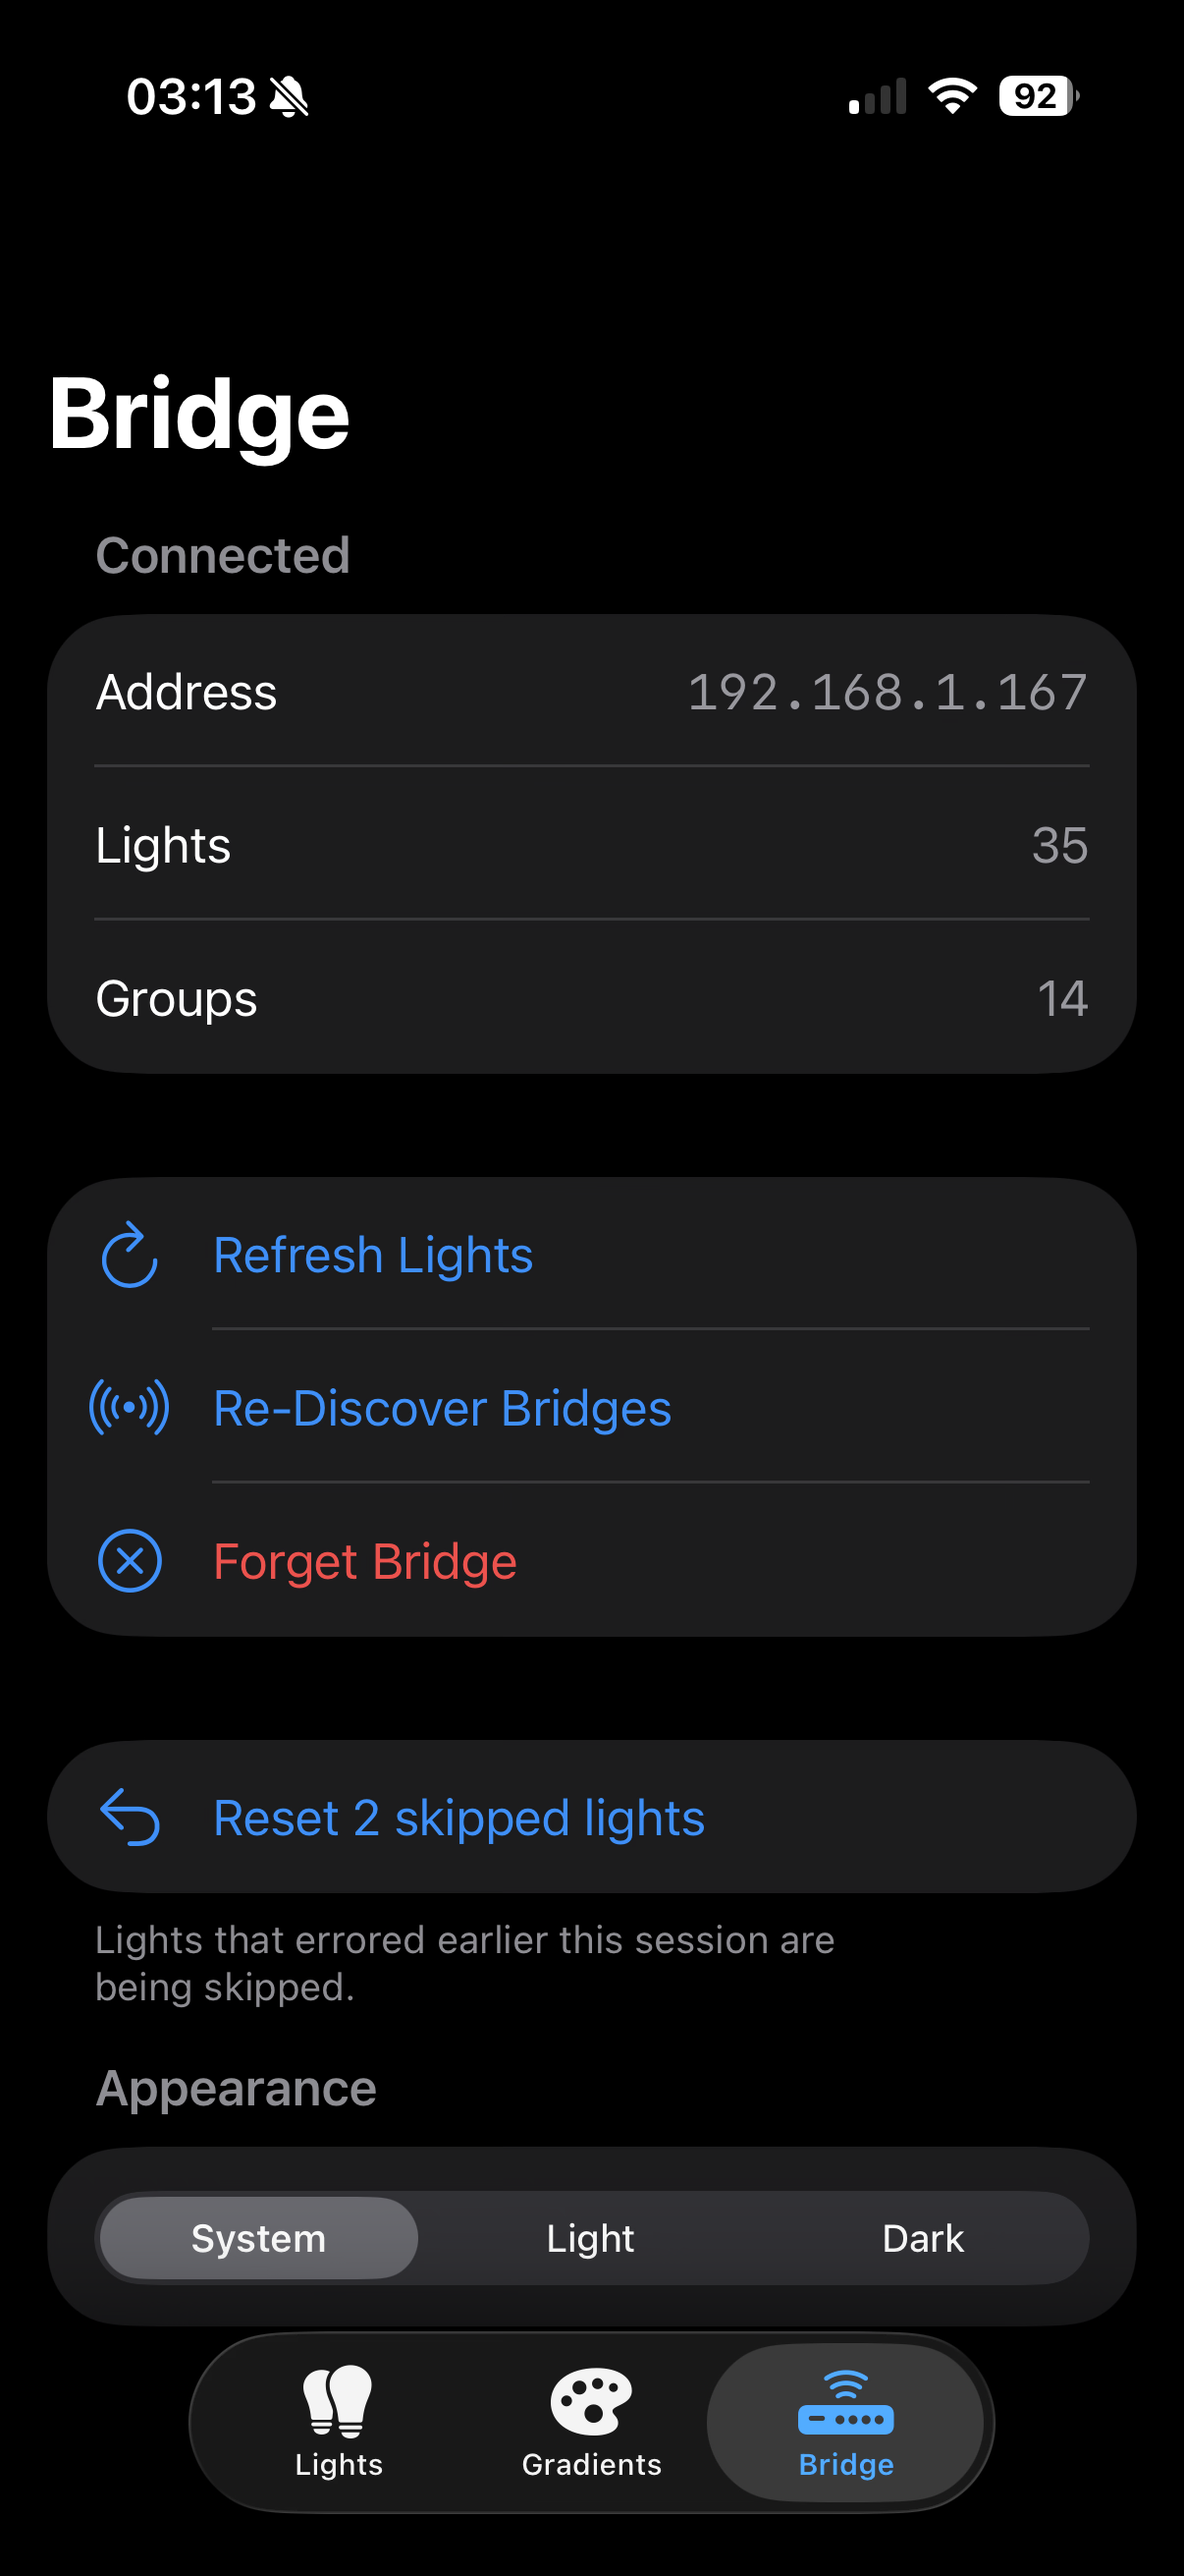
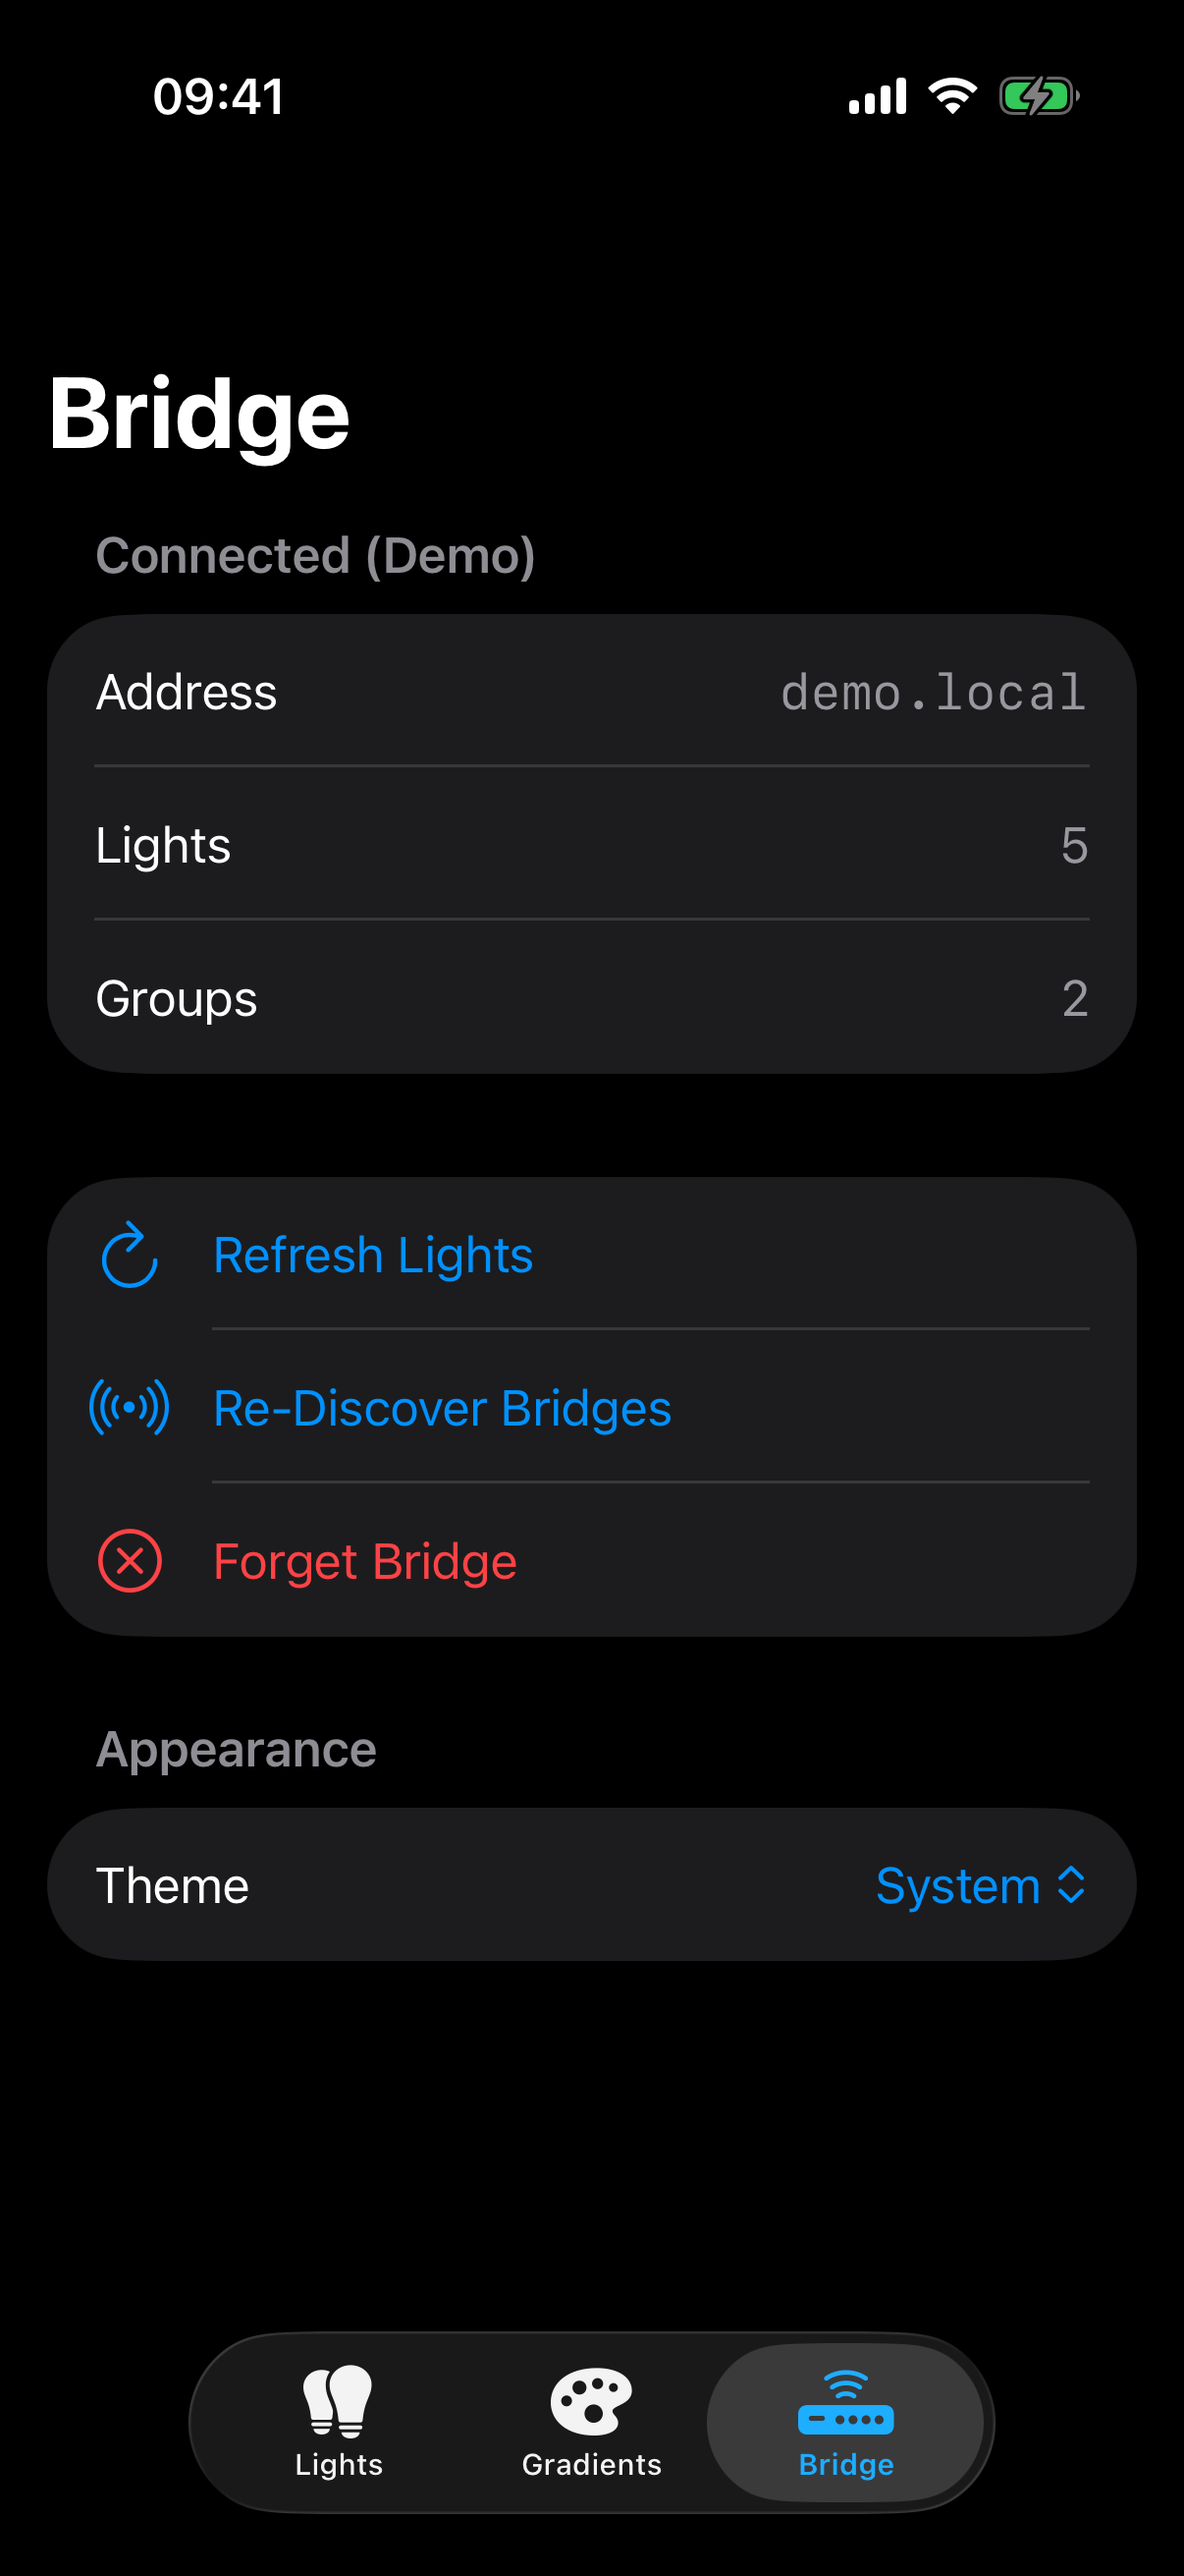
Add iOS launch-argument support and refresh demo-mode screenshots
Two new launch arguments on the iOS app for screenshot/UI-test automation:

- `-Demo YES` — seeds HueStore with demo lights and groups synchronously in
  the App's `init`, so child views render against fake bridge state on the
  very first body pass and don't race the real network discovery `.task`.
- `-Tab Lights|Gradients|Bridge` — picks which tab opens on launch by
  threading the value through `RootView(initialTab:)` into a new
  `RootTab`-typed `TabView` selection binding.

Used by:

    xcrun simctl launch <udid> local.huehouse.ios -Demo YES -Tab Gradients

The three `docs/ios/*.png` screenshots were regenerated headlessly from a
booted iPhone 17 Pro simulator using the new launch args, with the status
bar pinned to 9:41 / full bars / charged battery for cleaner imagery.

diff --git a/iOS/HueHouseiOS/HueHouseiOSApp.swift b/iOS/HueHouseiOS/HueHouseiOSApp.swift
@@ -3,13 +3,29 @@ import SwiftUI
 
 @main
 struct HueHouseiOSApp: App {
-    @StateObject private var store = HueStore()
+    @StateObject private var store: HueStore
     @AppStorage(HueAppStorage.appearanceModeKey) private var appearanceModeRawValue = "system"
     @Environment(\.scenePhase) private var scenePhase
 
+    private let launchOptions: LaunchOptions
+
+    init() {
+        let options = LaunchOptions.parse(arguments: ProcessInfo.processInfo.arguments)
+        self.launchOptions = options
+
+        // Pre-populate demo state synchronously so child views see the seeded
+        // store on their very first body pass — otherwise `BridgeView.task`
+        // would race the demo seeding and briefly run network discovery.
+        let store = HueStore()
+        if options.demoMode {
+            store.enableDemoMode()
+        }
+        _store = StateObject(wrappedValue: store)
+    }
+
     var body: some Scene {
         WindowGroup {
-            RootView()
+            RootView(initialTab: launchOptions.initialTab)
                 .environmentObject(store)
                 .preferredColorScheme(colorScheme)
         }
@@ -26,5 +42,31 @@ struct HueHouseiOSApp: App {
         case "dark":  return .dark
         default:      return nil
         }
+    }
+}
+
+enum RootTab: String, Hashable {
+    case lights, gradients, bridge
+}
+
+/// Parses the launch arguments for screenshot automation and UI testing.
+/// Recognised arguments (case-insensitive values):
+///   `-Demo YES`        — seed the store with demo lights and groups, bypassing bridge pairing.
+///   `-Tab <name>`      — open the app on Lights / Gradients / Bridge.
+struct LaunchOptions {
+    var demoMode: Bool = false
+    var initialTab: RootTab = .lights
+
+    static func parse(arguments: [String]) -> LaunchOptions {
+        var options = LaunchOptions()
+        if let i = arguments.firstIndex(of: "-Demo"), i + 1 < arguments.count {
+            let value = arguments[i + 1].lowercased()
+            options.demoMode = ["yes", "true", "1"].contains(value)
+        }
+        if let i = arguments.firstIndex(of: "-Tab"), i + 1 < arguments.count,
+           let tab = RootTab(rawValue: arguments[i + 1].lowercased()) {
+            options.initialTab = tab
+        }
+        return options
     }
 }

diff --git a/iOS/HueHouseiOS/RootView.swift b/iOS/HueHouseiOS/RootView.swift
@@ -3,17 +3,25 @@ import SwiftUI
 
 struct RootView: View {
     @EnvironmentObject private var store: HueStore
+    @State private var selectedTab: RootTab
+
+    init(initialTab: RootTab = .lights) {
+        _selectedTab = State(initialValue: initialTab)
+    }
 
     var body: some View {
-        TabView {
+        TabView(selection: $selectedTab) {
             NavigationStack { LightsView() }
                 .tabItem { Label("Lights", systemImage: "lightbulb.2.fill") }
+                .tag(RootTab.lights)
 
             NavigationStack { GradientsView() }
                 .tabItem { Label("Gradients", systemImage: "paintpalette.fill") }
+                .tag(RootTab.gradients)
 
             NavigationStack { BridgeView() }
                 .tabItem { Label("Bridge", systemImage: "wifi.router.fill") }
+                .tag(RootTab.bridge)
         }
         .alert(
             store.errorAlert?.title ?? "",
